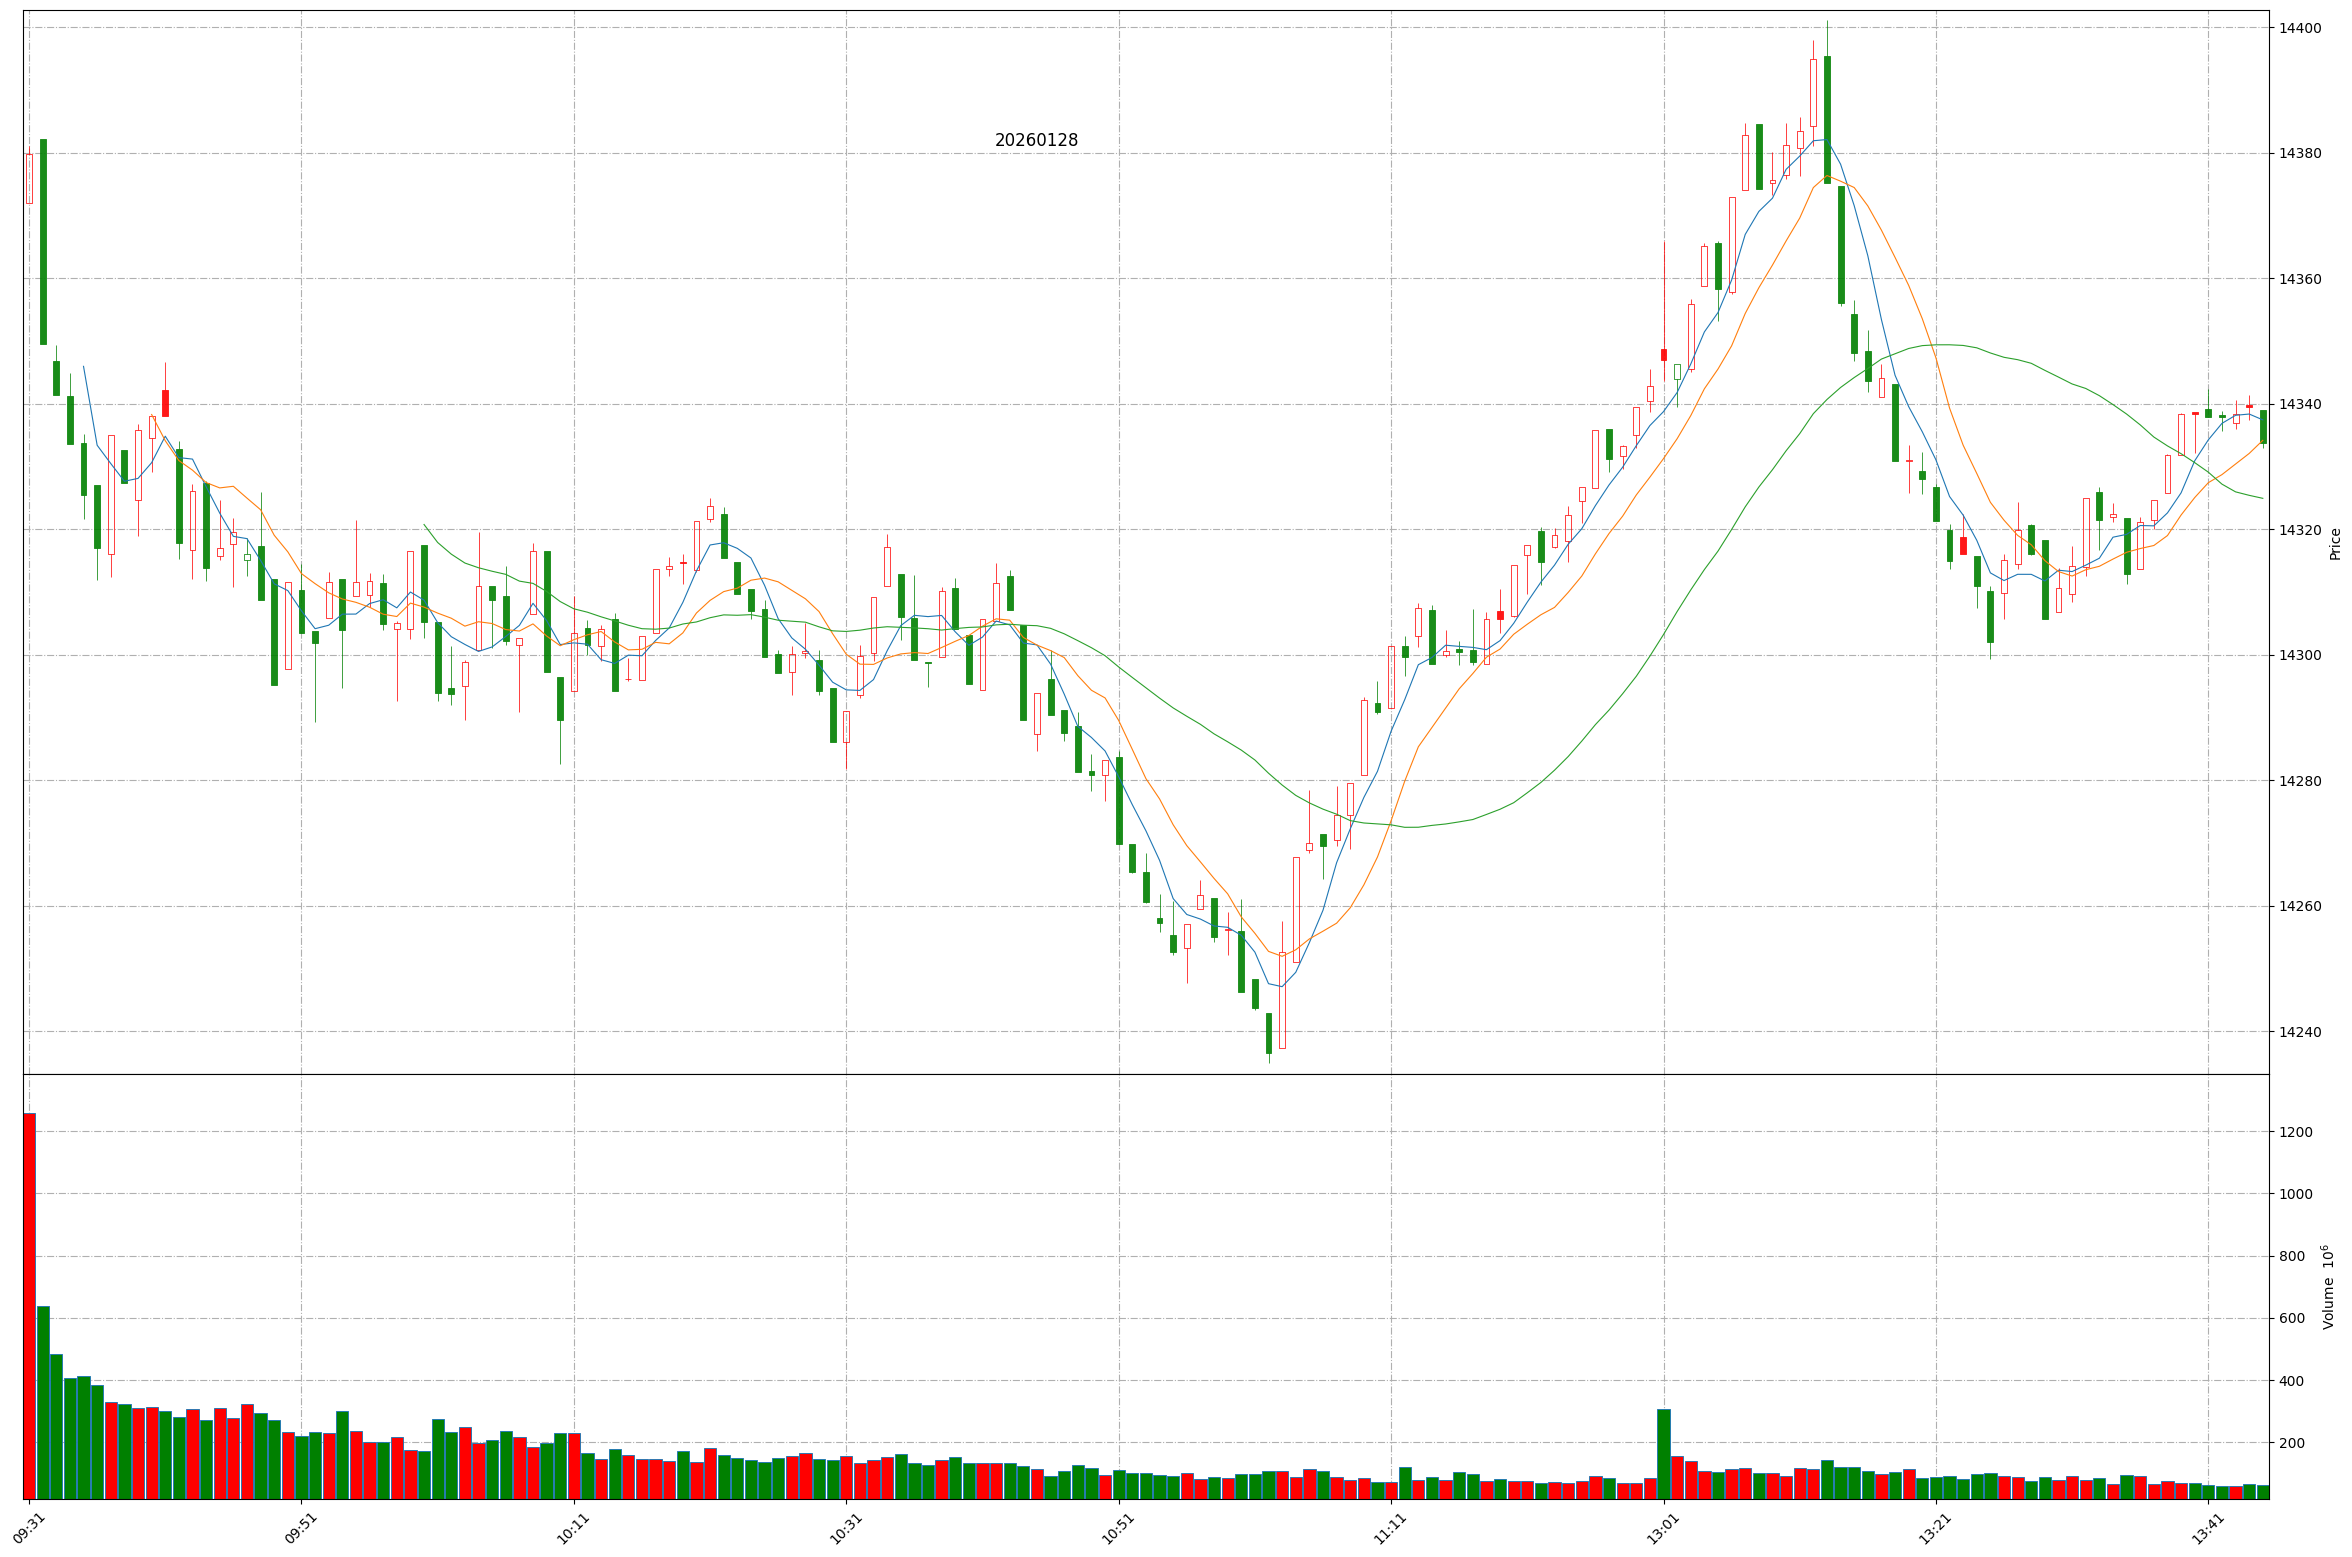
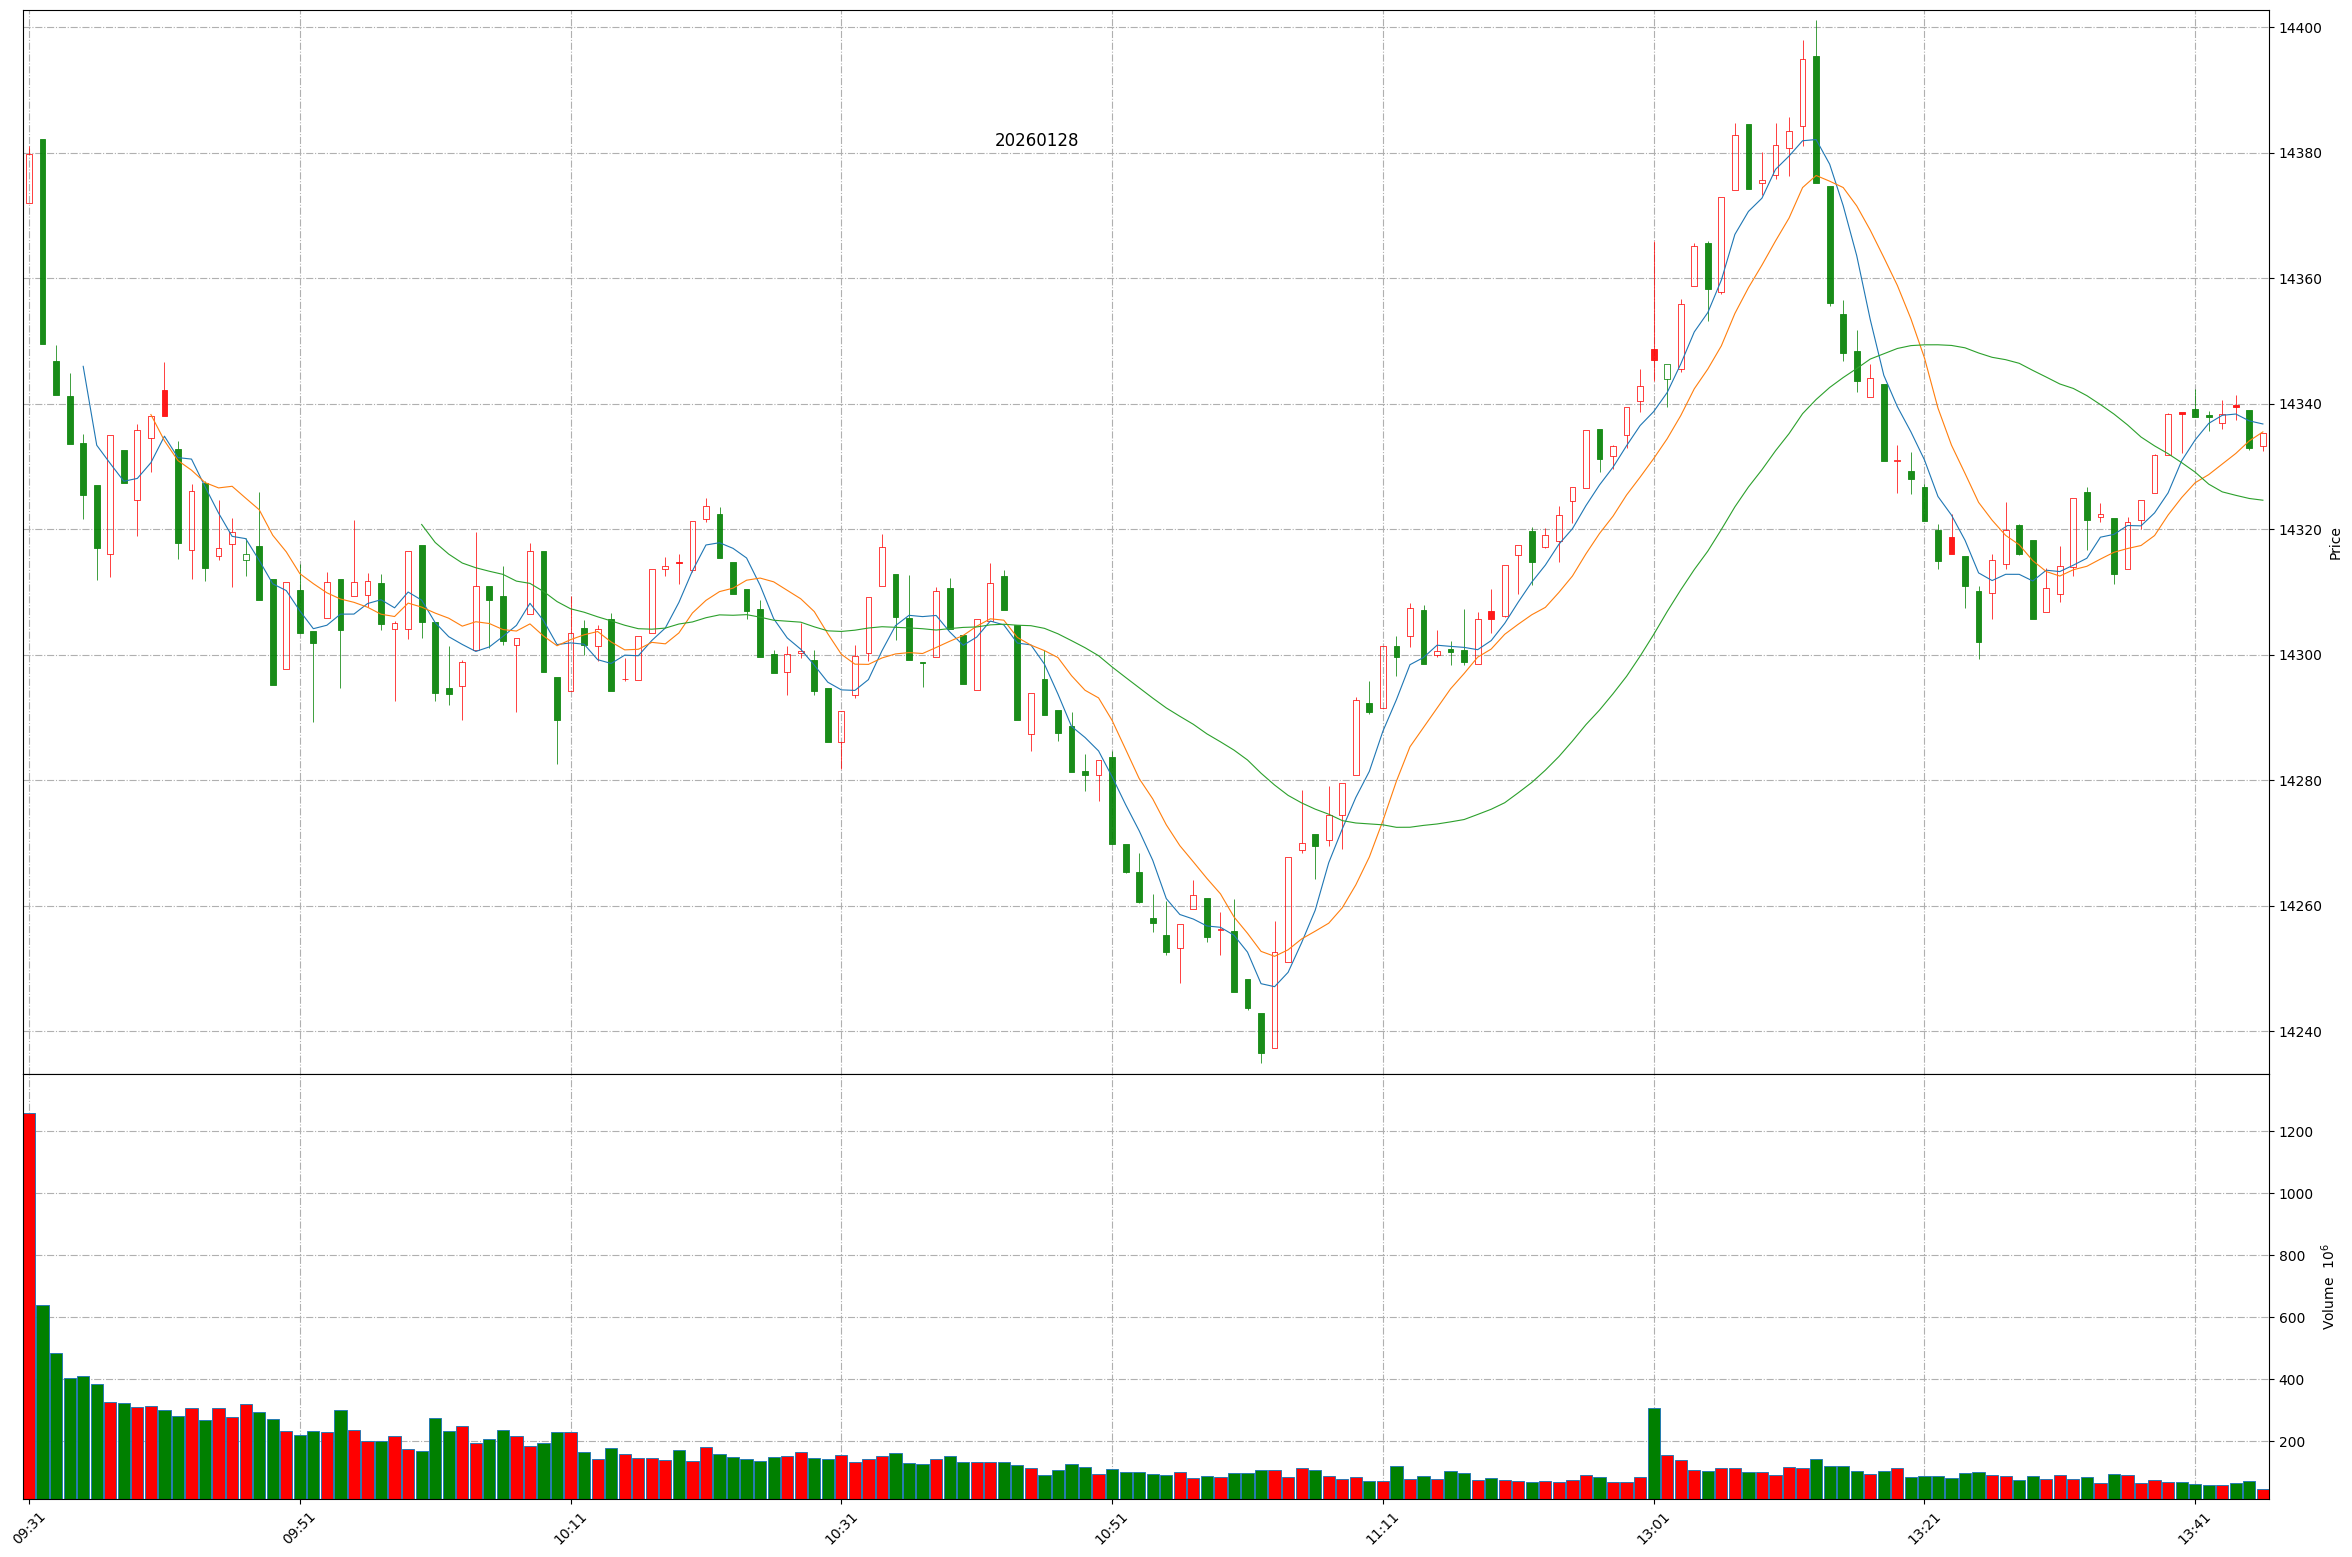
Github action update at 2026-01-28 13:46:10.

diff --git a/README.md b/README.md
@@ -1,11 +1,11 @@
 
 # Daily-A-share-market-quotes 每日 A 股指数（5min 更新）- 20260128
 
-### 上证指数 20260128 13:44
+### 上证指数 20260128 13:46
 ![](./fig/2026/1/20260128-sh000001.png)
 
-### 深证成指 20260128 13:44
+### 深证成指 20260128 13:46
 ![](./fig/2026/1/20260128-sz399001.png)
 
-### 北证50 20260128 13:44
+### 北证50 20260128 13:46
 ![](./fig/2026/1/20260128-bj899050.png)
